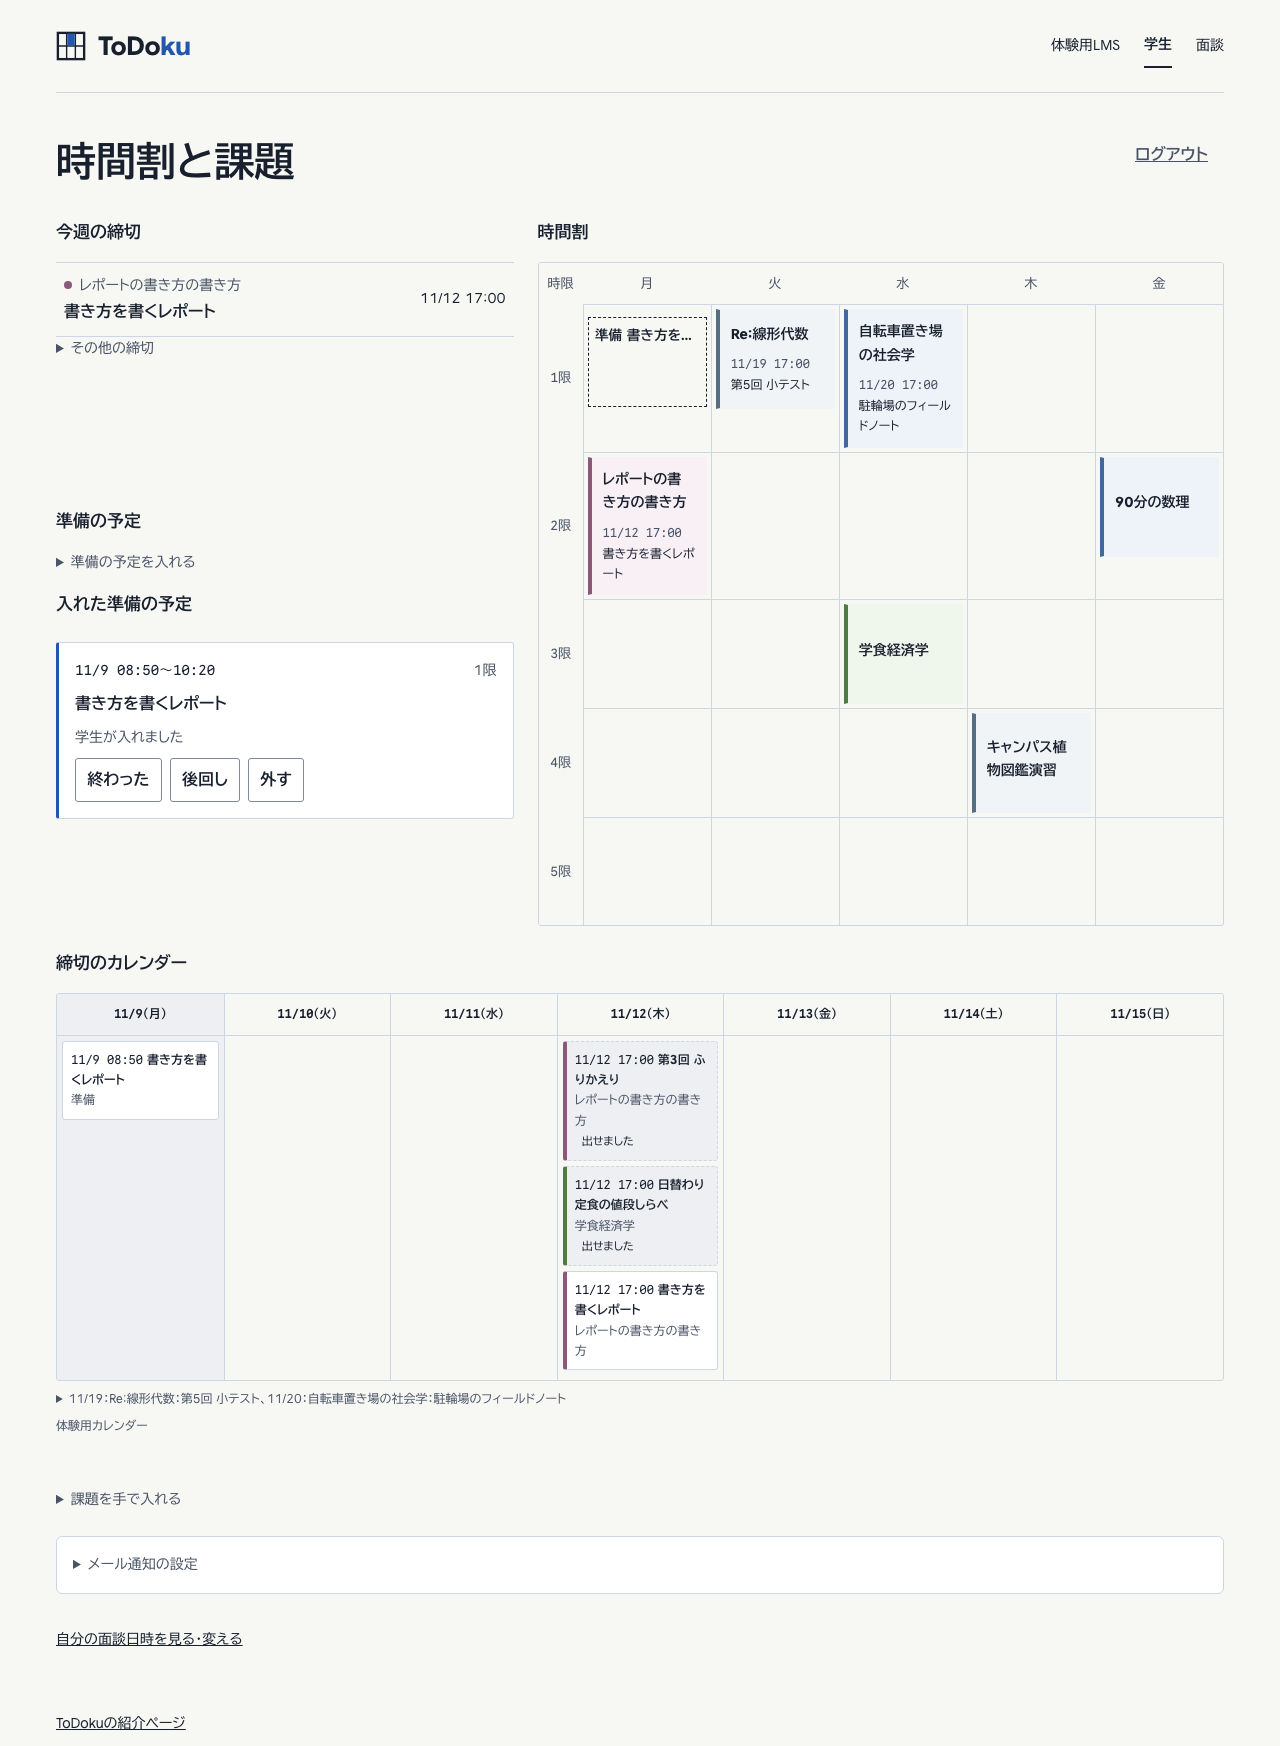
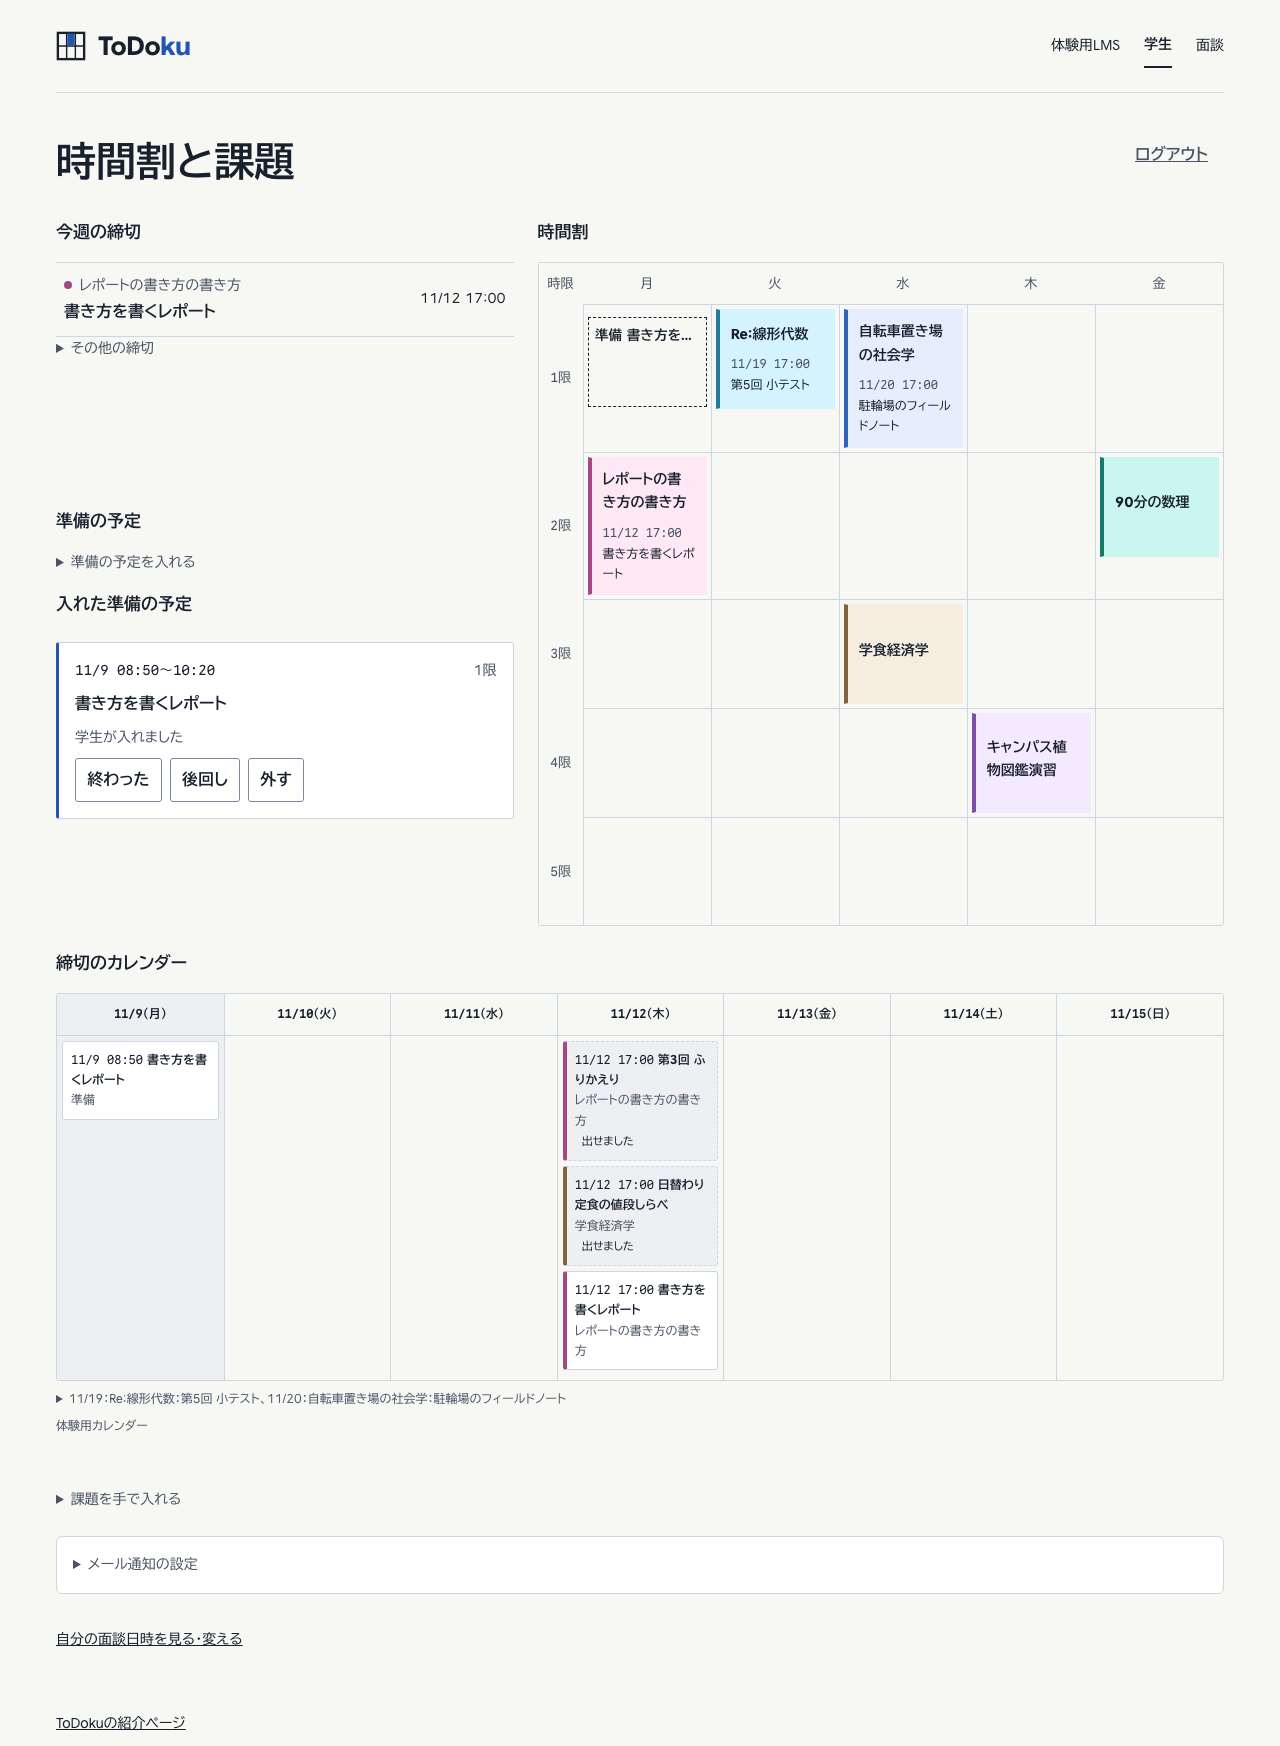
docs: refresh course color captures and verification for PR 238

Changed region(s): [[0.8438, 0.2474, 0.9688, 0.3402], [0.5625, 0.1546, 0.6562, 0.2474]]

diff --git a/docs/records/2026-11-09-issue-235/followup-verification.md b/docs/records/2026-11-09-issue-235/followup-verification.md
@@ -1,0 +1,45 @@
+# PR #238 追加修正の検証（2026-11-09）
+
+## 変更と確認
+
+- 8色を青・青緑・緑・黄土・桃・紫・空色・茶に変更。架空の6授業はすべて別色になった。授業名、朱の締切変更、状態、準備の点線は保持した。
+- `assignCourseColors(courses)` が全授業をsystem・courseIdの順に並べ、ハッシュの位置から空き色へずらす。8授業までは重複しない。8を超えると再利用する。改名・並び替え・表示の絞り込みでは変わらず、授業の増減では変わりうる。
+- 学生・面談・体験の入口のReact contextに、絞り込み前の同じ全授業一覧から作る割当を置いた。課題行・手入力課題・カレンダー・面談表と詳細・準備相談の時間割・体験の学生と支援担当が参照する。授業未指定と準備予定には色を付けない。
+- 既存のハッシュ単独の割当では6授業に色が重なる。新関数を呼ぶ6授業の試験で未実装の失敗を確認後に実装した。関連単体試験は14件成功（変更前4件→14件）。
+- 指定6検査はすべて終了0。core 274件・extension 509件・server 312件・web 166件成功（webは変更前156件）。エミュレーター専用試験等の通常skipは維持。見本17ファイル成功、実物との照合は対象外。
+- 審査QAは28/28→28/28、ブラウザ例外0（[操作結果](qa/operations.json)）。M6は8/8→8/8（[8手順](m6/m6.json)）。既存の正解・判定基準を変更せず実行した。両方ともローカルAuth/FirestoreとChromium、架空データのみ。
+- 色のブラウザ確認は10/10→14/14、例外0（[操作結果](after.json)）。1280/390pxで全6授業の別色と、表示が絞られた各画面の一致、準備の点線を確認。面談表の枠/内容は両幅140/138pxで維持。
+
+## コントラスト
+
+朱の変更文字 `#C43A26` を固定して4.5:1以上にするには、地のL*は93.692以上が必要。依頼の88〜93程度という目安から上端の約94へ寄せた。表の「文字最小」は本文・補足・リンク・朱の変更文字の最小値。全色4.5:1以上。帯は薄い地・paper・sheetのすべてに対して3:1以上。文字を帯の上に載せない。試験はCSSトークンから計算する。
+
+| 色 | 薄い地 | 濃い帯 | L* | 文字最小 | 帯/地 | 帯/paper | 帯/sheet |
+|---|---|---|---:|---:|---:|---:|---:|
+| 0 青 | #e6eefe | #2f63b6 | 93.94 | 4.529 | 5.034 | 5.498 | 5.864 |
+| 1 青緑 | #caf6ef | #147b69 | 93.75 | 4.507 | 4.411 | 4.841 | 5.164 |
+| 2 緑 | #d5f6d5 | #39803a | 93.82 | 4.515 | 4.158 | 4.555 | 4.858 |
+| 3 黄土 | #faefa7 | #8a751c | 93.82 | 4.515 | 3.871 | 4.241 | 4.524 |
+| 4 桃 | #fde8f4 | #a34882 | 93.94 | 4.529 | 4.735 | 5.172 | 5.517 |
+| 5 紫 | #f4eafd | #7e50aa | 93.96 | 4.531 | 4.989 | 5.446 | 5.809 |
+| 6 空色 | #d4f3fd | #237b99 | 93.96 | 4.532 | 4.133 | 4.511 | 4.811 |
+| 7 茶 | #f6ecdf | #816342 | 93.84 | 4.518 | 4.736 | 5.185 | 5.531 |
+
+## 画面と再実行
+
+既存のbefore画像は保持し、after画像10枚を今回の版で撮り直した。下記の時間割、体験、面談を直接目視した。390pxでは表の枠内を横へスクロールして読む。
+
+| 画面 | 1280px | 390px |
+|---|---|---|
+| 学生 | [画像](after-student-1280.png) | [画像](after-student-390.png) |
+| 時間割 | [画像](after-timetable-1280.png) | [画像](after-timetable-390.png) |
+| 面談 | [画像](after-session-1280.png) | [画像](after-session-390.png) |
+| 体験・学生 | [画像](after-demo-student-1280.png) | [画像](after-demo-student-390.png) |
+| 体験・支援担当 | [画像](after-demo-supporter-1280.png) | [画像](after-demo-supporter-390.png) |
+
+- 6検査：`pnpm typecheck && pnpm lint && pnpm test && pnpm build && pnpm progress --check && pnpm check:samples`。
+- 色確認：`node packages/web/tests/run-course-colors-browser.mjs`。QA：`node packages/web/tests/run-plans-browser.mjs --judge-qa`。M6：`node packages/web/tests/run-demo-browser.mjs`。
+- 各ブラウザコマンドは`pnpm exec node scripts/run-emulators.mjs --project demo-kadai-hisho --only auth,firestore`を通す。色確認とQAは一時設定を`--config-from-env`で読み、Auth 9195 / Firestore 8295を使用。M6は9099 / 8085。`PLAYWRIGHT_MODULE`は導入済みのPlaywrightを指定。firebase.jsonは変更していない。
+- [共通検証の結果](followup-artifact-receipt.json)は今回のソースと検査・目視を結び付けた作者自身の確認。Claudeによる見直しは未実施。
+- PLANの既存C18・C23・C24・C34へ証拠を追記し、`pnpm progress --write`を実行。完成条件は全体36/43・必須32/39で変わらない。
+- 紹介ページ・ロゴ・LMSの見た目、index.html・public・main.tsx・firebase.json、取得部品、依存・API・保存形式は変更していない。デプロイ・mergeは未実施。色の好みはSora・orangeが確認する。

diff --git a/docs/records/2026-11-09-issue-235/followup-plan.md b/docs/records/2026-11-09-issue-235/followup-plan.md
@@ -1,0 +1,9 @@
+# PR #238 追加修正の計画
+
+- 目的：学生・支援担当が、架空の6授業を時間割の地の色で見分け、課題・カレンダー・面談・体験でも同じ色をたどれるようにする。
+- 変更：`shared/course-color.ts` に全授業をsystem・courseId順で割り当てる純粋関数を置く。`shared/course-color-context.tsx` で一度作り、student・session・demoの入口から子部品へ共有する。絞り込み前の全授業を渡し、取得・保存・APIは変えない。
+- 配色：`shared/styles/tokens.css` の8対だけ差し替える。朱文字を固定して4.5:1を保つにはL*93.7以上が必要なので、薄い地は約94とする。帯と地・paper・sheetは3:1以上。紹介ページ・LMS・ロゴ・指定の禁止ファイルは変更しない。
+- 試験：まず6授業の重複と新関数の欠如を失敗として確認する。並び替え・改名・重複ID・8超の授業・接続先の違いも確認。既存コントラスト試験を8色別の地・背景との比較へ強化する。ブラウザでは全6授業の色が異なることと、絞られた体験・課題・カレンダー・面談での一致を確認する。
+- 証拠：1280/390pxのafter画像と結果を更新。指定6検査、既存の審査QA 28/28とM6 8/8を新しい版で実行。既存の正解・判定は変えない。
+- 完了：PLANの既存C18・C24・C34へ追加証拠を付け、progressを再生成。作業branchへcommit・pushしPR #238とIssue #235へ結果を書く。merge・デプロイは行わない。
+- 停止：担当外の取得部品・保存形式・API・依存・クラウド資源の変更、秘密情報・実データへのアクセスが必要になった場合。色の好みとClaudeによる再確認は残件として明記する。
